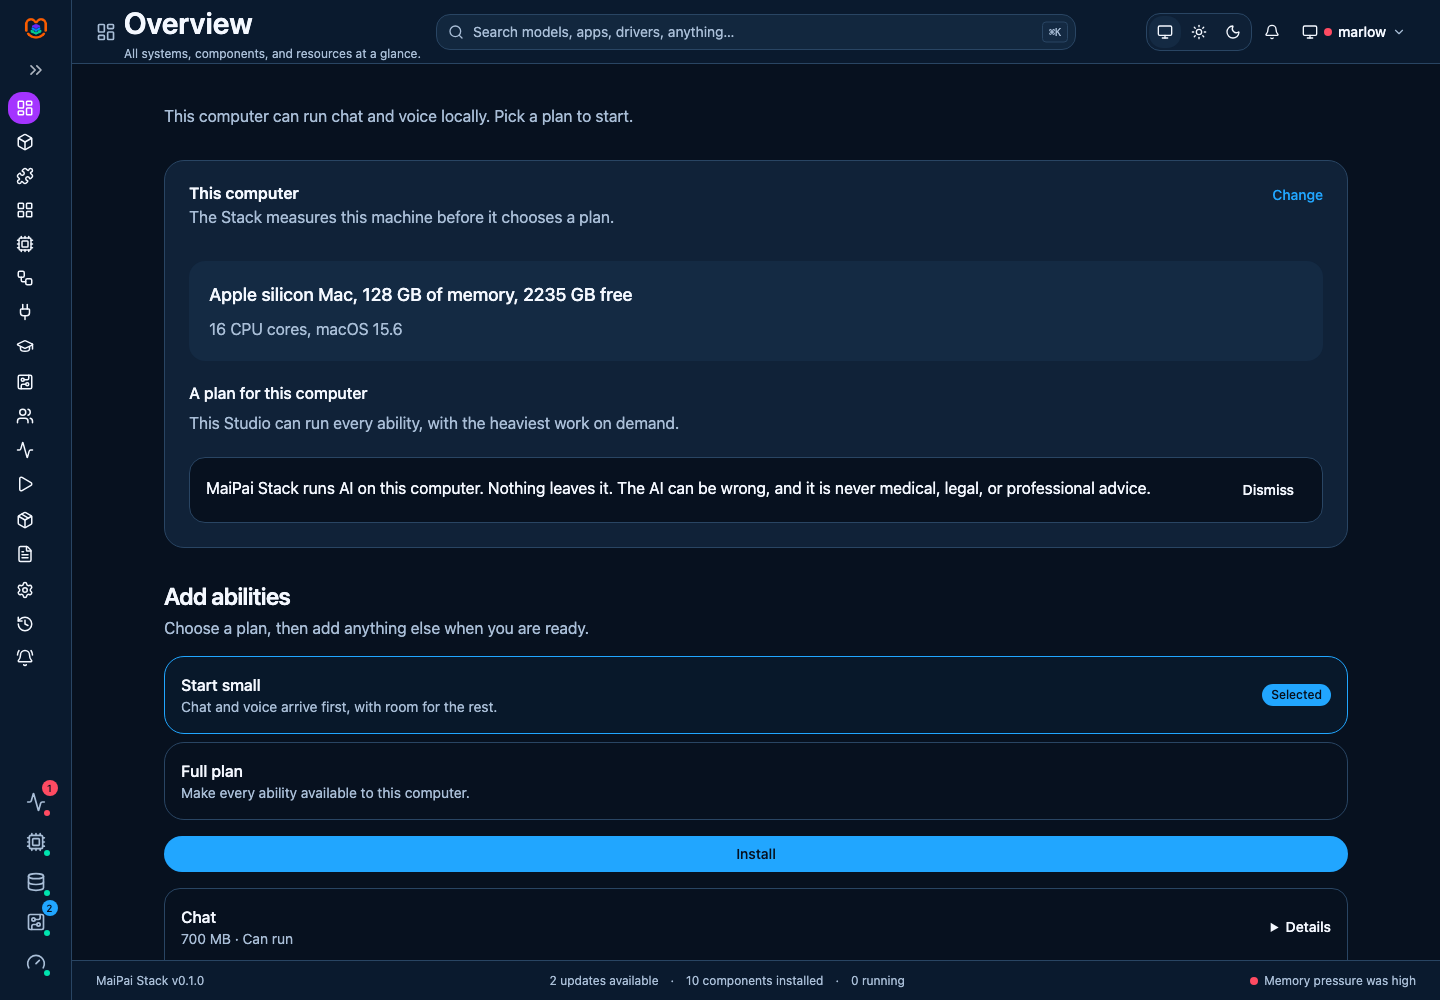
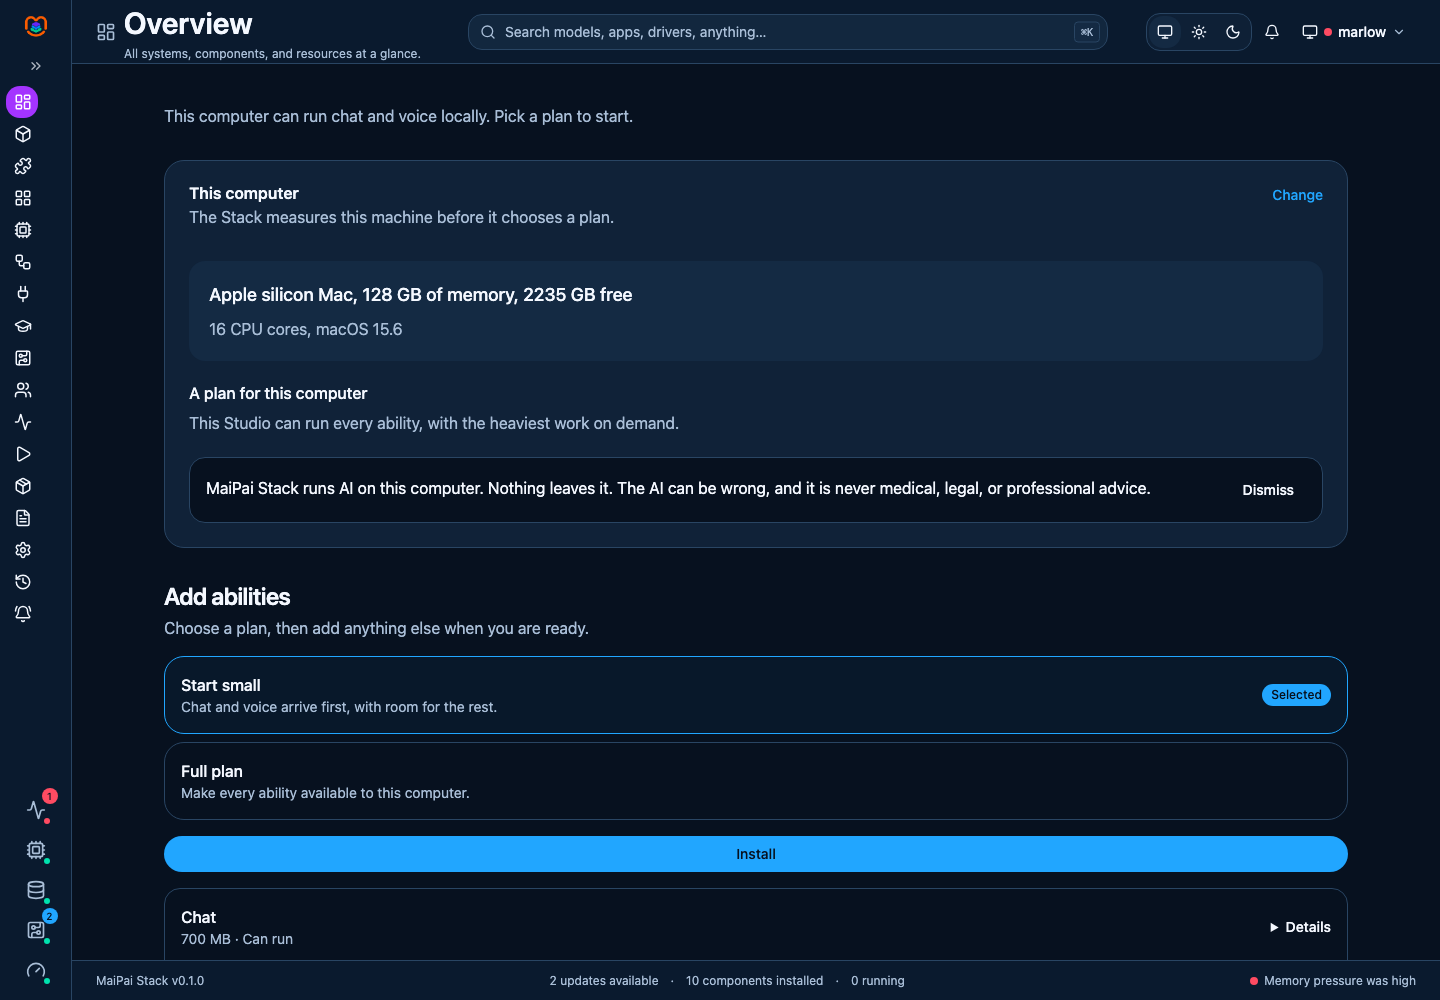
Console (UI-02 retest): header subtitle floor and group label spacing
Two more from the owner's retest of the last capture: the destination
header's subtitle was truncating at 1440 ("All systems, components,
an...") since the header's left grid track had no minimum and lost the
tug-of-war with the search track's own 420px floor; gave it a 360px
floor so search shrinks first. Group labels (STACK, SYSTEM, RESOURCES,
MANAGE) sat flush against the row above; gave each 16px above and 8px
below, trading back some of the margin nav-main.tsx tightened for
UI-02's 900px no-scroll fit (a very short viewport now needs a small
scroll to reach the last destination, rather than fitting exactly, but
nothing is hidden or unreachable the way the original bug left it).

Trimmed the rail's own outer padding and rail-toggle size a little
further to claw back part of that margin without touching the 40px
row height or the new label spacing.

Claude-Session: https://claude.ai/code/session_01Rd9mTHwXRWuqgfNj1zw8Ba

diff --git a/frontend/src/kit/blocks/dashboard/components/nav-main.tsx b/frontend/src/kit/blocks/dashboard/components/nav-main.tsx
@@ -10,15 +10,17 @@ export function NavMain({ groups }: { groups: NavGroup[] }) {
   // The rail's own overflow-auto scroller (kit/ui/sidebar.tsx's
   // SidebarContent) sits one level up; this list just needs to be able to
   // shrink below its content size (min-h-0) so that scroller, not the
-  // whole rail, is what scrolls. Group padding and label height are kept
-  // tight so all 17 destinations plus their 4 group labels fit inside an
-  // 900px-tall viewport without needing to scroll at all.
+  // whole rail, is what scrolls. Group padding is kept tight and rows stay
+  // at their 40px spec height; the 16px/8px space around each group label
+  // (owner's retest, 2026-09-20) means a very short viewport (~900px) can
+  // still need a small scroll to reach the last destination, but nothing
+  // is unreachable or hidden the way it was before this scroller existed.
   return (
-    <div data-nav-mode="pinned" className="flex min-h-0 flex-1 flex-col gap-1">
+    <div data-nav-mode="pinned" className="flex min-h-0 flex-1 flex-col">
       {groups.map((group) => (
         <SidebarGroup key={group.label} className="group/nav p-0">
-          <SidebarGroupLabel className="h-4 px-2 text-xs font-semibold tracking-wide text-sidebar-foreground/60 uppercase group-data-[collapsible=icon]:hidden">{group.label}</SidebarGroupLabel>
-          <SidebarMenu className="gap-0.5">
+          <SidebarGroupLabel className="mt-4 mb-2 h-4 px-2 text-xs font-semibold tracking-wide text-sidebar-foreground/60 uppercase group-data-[collapsible=icon]:hidden">{group.label}</SidebarGroupLabel>
+          <SidebarMenu className="gap-0">
             {group.items.map((item) => (
               <SidebarMenuItem key={item.title}>
                 <SidebarMenuButton asChild isActive={item.isActive} tooltip={item.tooltip ?? item.title} className="h-10 px-3 text-[15px] [&>svg]:size-[18px]! data-[active=true]:bg-[var(--hue-violet)] data-[active=true]:text-white data-[active=true]:hover:bg-[var(--hue-violet)] data-[active=true]:hover:text-white">

diff --git a/frontend/src/kit/blocks/dashboard/components/app-sidebar.tsx b/frontend/src/kit/blocks/dashboard/components/app-sidebar.tsx
@@ -12,8 +12,8 @@ const ChevronsRight = getIcon("ChevronsRight");
 function RailToggle(): React.ReactElement {
   const { state, toggleSidebar } = useSidebar();
   const expanded = state === "expanded";
-  return <button type="button" onClick={toggleSidebar} aria-expanded={expanded} aria-label={expanded ? "Collapse navigation" : "Expand navigation"} className="flex size-9 shrink-0 items-center justify-center rounded-md text-sidebar-foreground/70 hover:bg-sidebar-accent hover:text-sidebar-accent-foreground">
-    {expanded ? <ChevronsLeft className="size-5" /> : <ChevronsRight className="size-5" />}
+  return <button type="button" onClick={toggleSidebar} aria-expanded={expanded} aria-label={expanded ? "Collapse navigation" : "Expand navigation"} className="flex size-8 shrink-0 items-center justify-center rounded-md text-sidebar-foreground/70 hover:bg-sidebar-accent hover:text-sidebar-accent-foreground">
+    {expanded ? <ChevronsLeft className="size-4" /> : <ChevronsRight className="size-4" />}
   </button>;
 }
 
@@ -34,7 +34,7 @@ export function AppSidebar({ engineCount = 0, updateCount = 0, alertSeverity = n
       tooltip: tooltips[destination.id],
     })),
   }));
-  return <Sidebar collapsible="icon" className="bg-[var(--surface-sidebar)] p-2 pb-3" {...props}>
+  return <Sidebar collapsible="icon" className="bg-[var(--surface-sidebar)] p-1.5 pb-2" {...props}>
     <SidebarHeader className="p-0">
       <SidebarMenu><SidebarMenuItem>
         <div className="flex items-center justify-between gap-2 px-1.5 py-1 group-data-[collapsible=icon]:flex-col group-data-[collapsible=icon]:gap-2">
@@ -44,6 +44,6 @@ export function AppSidebar({ engineCount = 0, updateCount = 0, alertSeverity = n
       </SidebarMenuItem></SidebarMenu>
     </SidebarHeader>
     <SidebarContent className="flex flex-col"><NavMain groups={groups} /></SidebarContent>
-    <SidebarFooter className="p-0 pb-1"><SystemPulse /></SidebarFooter>
+    <SidebarFooter className="p-0"><SystemPulse /></SidebarFooter>
   </Sidebar>;
 }

diff --git a/frontend/src/kit/blocks/dashboard/components/site-header.tsx b/frontend/src/kit/blocks/dashboard/components/site-header.tsx
@@ -222,7 +222,7 @@ function AppearanceControl() {
 export function SiteHeader() {
   return (
     <header className="sticky top-0 z-30 flex h-16 shrink-0 items-center border-b bg-[var(--surface-sidebar)] px-3 sm:px-4 lg:px-6">
-      <div className="grid w-full grid-cols-[1fr_auto_1fr] items-center gap-3 lg:grid-cols-[1fr_minmax(420px,640px)_1fr]">
+      <div className="grid w-full grid-cols-[1fr_auto_1fr] items-center gap-3 lg:grid-cols-[minmax(360px,1fr)_minmax(420px,640px)_1fr]">
         <div className="flex min-w-0 items-center gap-2">
           {/* The rail's own double-chevron (app-sidebar.tsx's RailToggle) is the
               one desktop toggle the reference shows; it lives inside the rail
